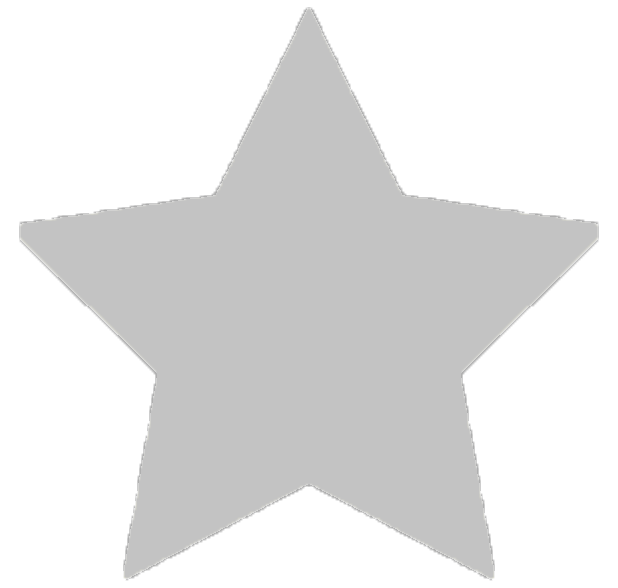
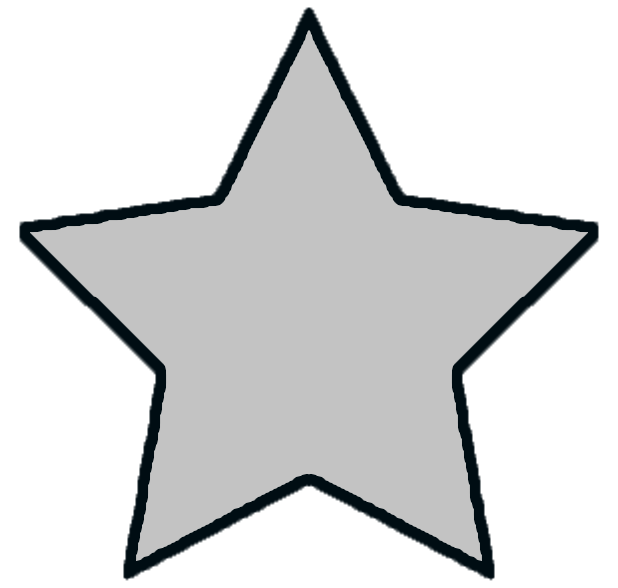
共通部分ideabox, workboxの実装 + 微修正
- html, cssのみ
  - データベース連携や連携に伴う表示は未実装
- FavoriteStarの輪郭線
  - 背景によっては見づらくなっていたため
- HeroImageを文字入りに修正
  - コーディング工数削減のため

Changed region(s): [[0.0307, 0.0, 0.9838, 1.0]]

diff --git a/app/assets/stylesheets/shared/ideabox.css b/app/assets/stylesheets/shared/ideabox.css
@@ -1,0 +1,38 @@
+.IdeaBox {
+  background-color: #343a3d;
+  border-radius: 5px;
+  margin: 10px;
+  padding: 20px;
+  width: 280px;
+}
+
+.IdeaBoxDescription {
+  font-size: 14px;
+  margin-top: 5px;
+  overflow: hidden;
+  text-overflow: ellipsis;
+}
+
+.IdeaBoxImagesContainer {
+  display: flex;
+  height: 70px;
+  justify-content: space-between;
+  margin-top: 5px;
+  width: 100%;
+}
+
+.IdeaBoxImage {
+  width: 70px;
+}
+
+.IdeaBoxBottomContents {
+  display: flex;
+  justify-content: space-between;
+  margin-top: 5px;
+}
+
+.IdeaBoxFavoriteStar {
+  height: 40px;
+  margin-top: 5px;
+  width: 40px;
+}

diff --git a/app/assets/stylesheets/ideas/index.css b/app/assets/stylesheets/ideas/index.css
@@ -1,0 +1,33 @@
+.TopHeroImage {
+  width: 100%;
+}
+
+.TopIdeasIndex {
+  margin: 20px;
+}
+
+.TopIdeasIndexTitle {
+  margin-left: 10px;
+}
+
+.TopIdeasIndexBoxContainer {
+  display: flex;
+  flex-wrap: wrap;
+  justify-content: space-between;
+  width: 100%;
+}
+
+.TopWorksIndex {
+  margin: 20px;
+}
+
+.TopWorksIndexTitle {
+  margin-left: 10px;
+}
+
+.TopWorksIndexBoxContainer {
+  display: flex;
+  flex-wrap: wrap;
+  justify-content: space-between;
+  width: 100%;
+}

diff --git a/app/assets/stylesheets/shared/workbox.css b/app/assets/stylesheets/shared/workbox.css
@@ -1,0 +1,28 @@
+.WorkBoxesContainer {
+  display: flex;
+  flex-wrap: wrap;
+  justify-content: space-between;
+  width: 100%;
+}
+
+.WorkBox {
+  margin: 10px;
+  position: relative;
+  width: 320px;
+}
+
+.WorkBoxImage {
+  width: 100%;
+}
+
+.WorkBoxFavoriteStar {
+  height: 40px;
+  position: absolute;
+  right: 10px;
+  top: 10px;
+  width: 40px;
+}
+
+.WorkBoxTitle {
+  margin-top: 5px;
+}

diff --git a/app/assets/stylesheets/base.css b/app/assets/stylesheets/base.css
@@ -2,7 +2,7 @@ body {
   background-color: #000d13;
   color: #a2a2a2;
   font-family: 'Yu Gothic'; 
-  font-size: 24px;
+  font-size: 16px;
 }
 
 main {
@@ -13,4 +13,8 @@ main {
 h1 {
   font-size: 36px;
   font-weight: bold;
+}
+
+h2 {
+  font-size: 18px;
 }

diff --git a/app/assets/stylesheets/reset.css b/app/assets/stylesheets/reset.css
@@ -83,15 +83,6 @@ caption,
 th {
   text-align:left;
 }
-h1,
-h2,
-h3,
-h4,
-h5,
-h6 {
-  font-size:100%;
-  font-weight:normal;
-}
 q:before,
 q:after {
   content:'';
